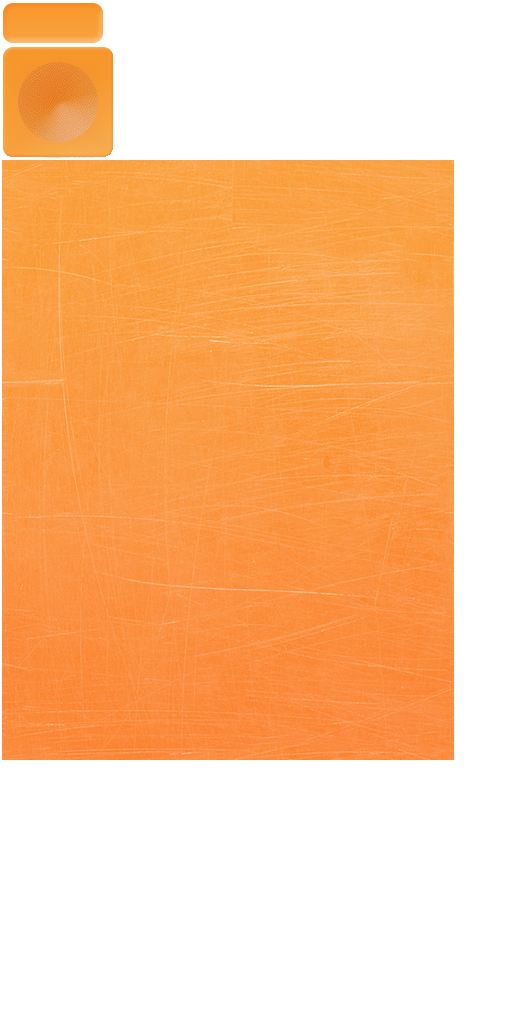
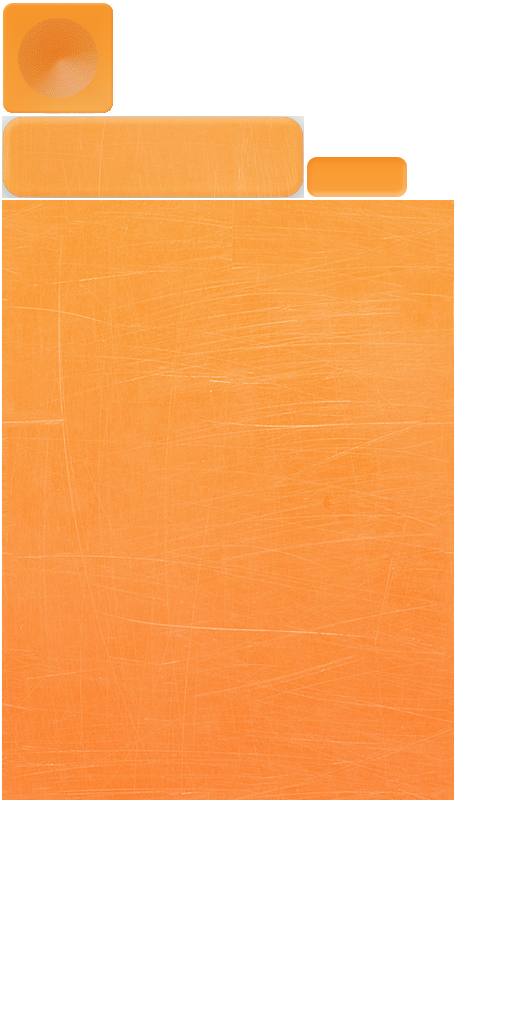
init2

diff --git a/core/src/com/wispoz/pougame/ActorInputListen.java b/core/src/com/wispoz/pougame/ActorInputListen.java
@@ -15,6 +15,24 @@ public class ActorInputListen extends ActorGestureListener {
     @Override
     public void fling (InputEvent event, float velocityX, float velocityY, int button) {
 
-        System.out.println(" WEE SPWIPEEE swipe x:"+velocityX+"y:"+velocityY);
-    }
+        if(Math.abs(velocityX)>Math.abs(velocityY)){
+            if(velocityX>0){
+               // directionListener.onRight();
+                System.out.println("SWIPE: RIGHT");
+            }else{
+              //  directionListener.onLeft();
+                System.out.println("SWIPE: LEFT");
+            }
+        }else{
+            if(velocityY>0){
+            //    directionListener.onDown();
+            System.out.println("SWIPE: UP");
+
+            }else{
+            //    directionListener.onUp();
+                System.out.println("SWIPE: DWON");
+            }
+        }
+     }
 }
+

diff --git a/core/src/com/wispoz/pougame/TableStage.java b/core/src/com/wispoz/pougame/TableStage.java
@@ -1,0 +1,19 @@
+package com.wispoz.pougame;
+
+import com.badlogic.gdx.scenes.scene2d.ui.Table;
+
+
+/**
+ * Created by wispoz on 20.04.15.
+ */
+public class TableStage extends GameStage {
+
+    public TableStage() {
+        Table table = new Table();
+        table.debug();      // Turn on all debug lines (table, cell, and widget).
+        table.debugTable(); // Turn on only table lines.
+        table.row();
+        table.setFillParent(true);
+        addActor(table);
+    }
+}

diff --git a/core/src/com/wispoz/pougame/PouPouGames.java b/core/src/com/wispoz/pougame/PouPouGames.java
@@ -16,7 +16,7 @@ public class PouPouGames extends ApplicationAdapter {
     @Override
     public void create () {
 
-        stage = new GameStage();
+        stage = new TableStage();
 
     }
 
